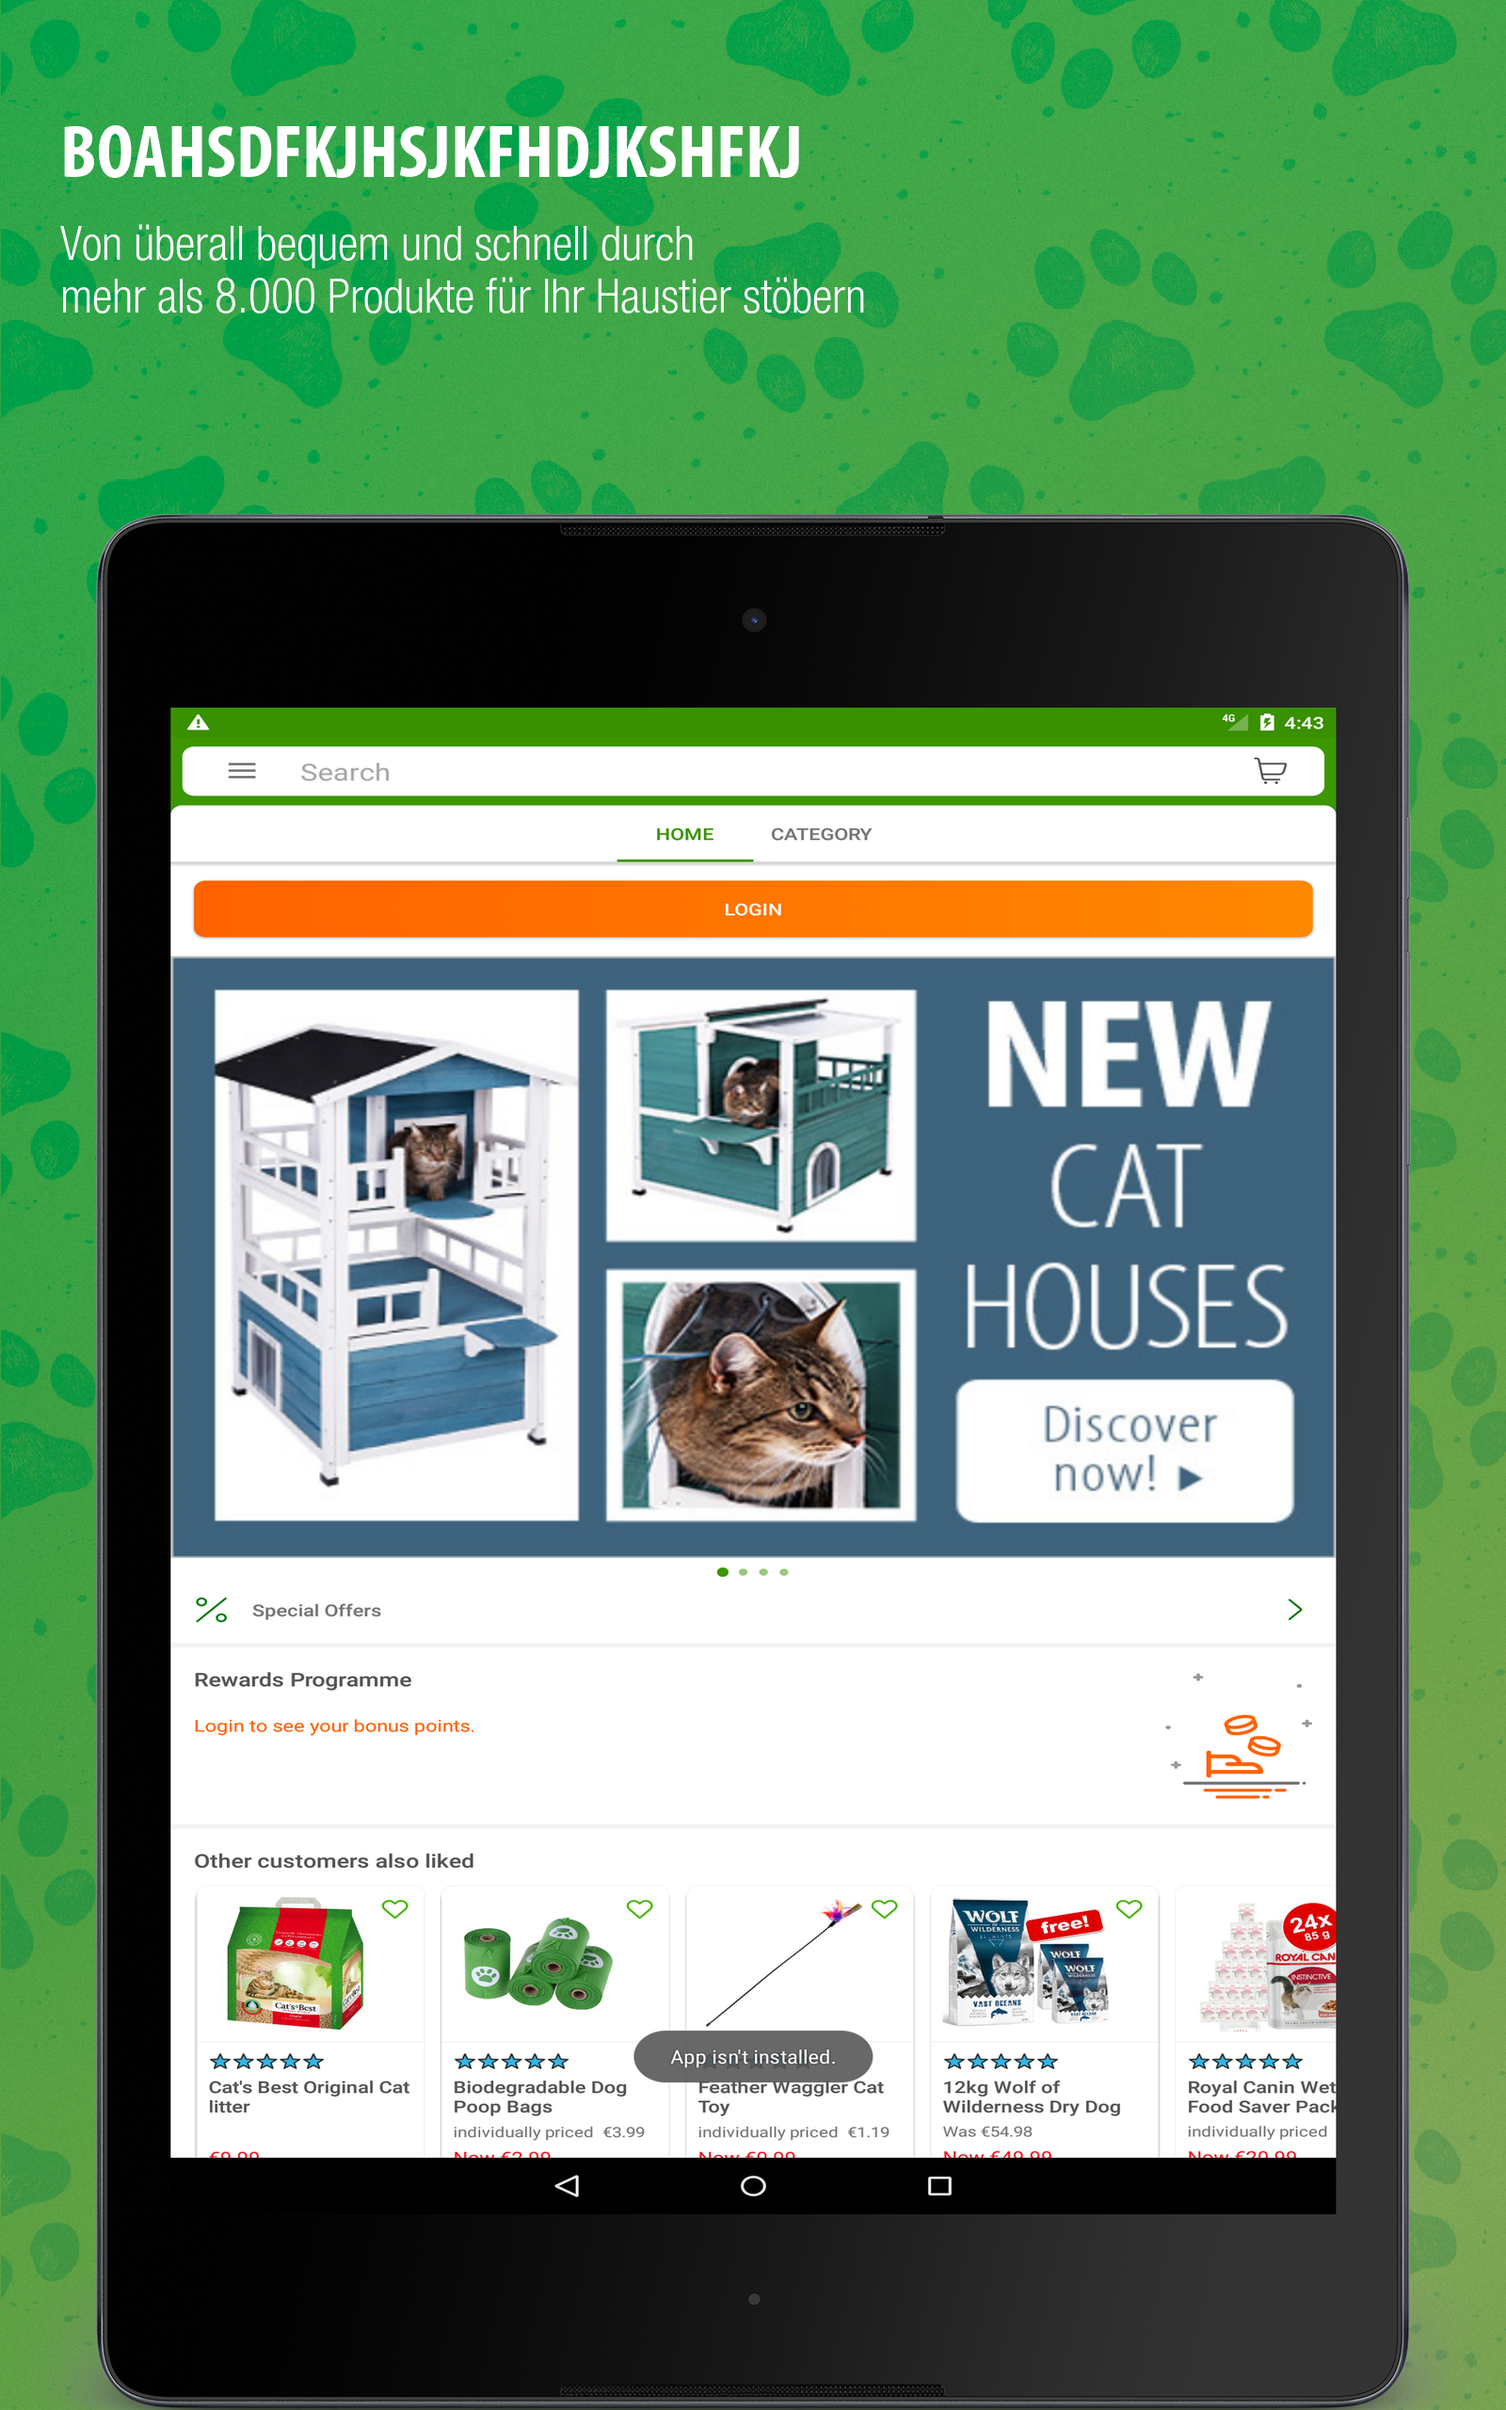
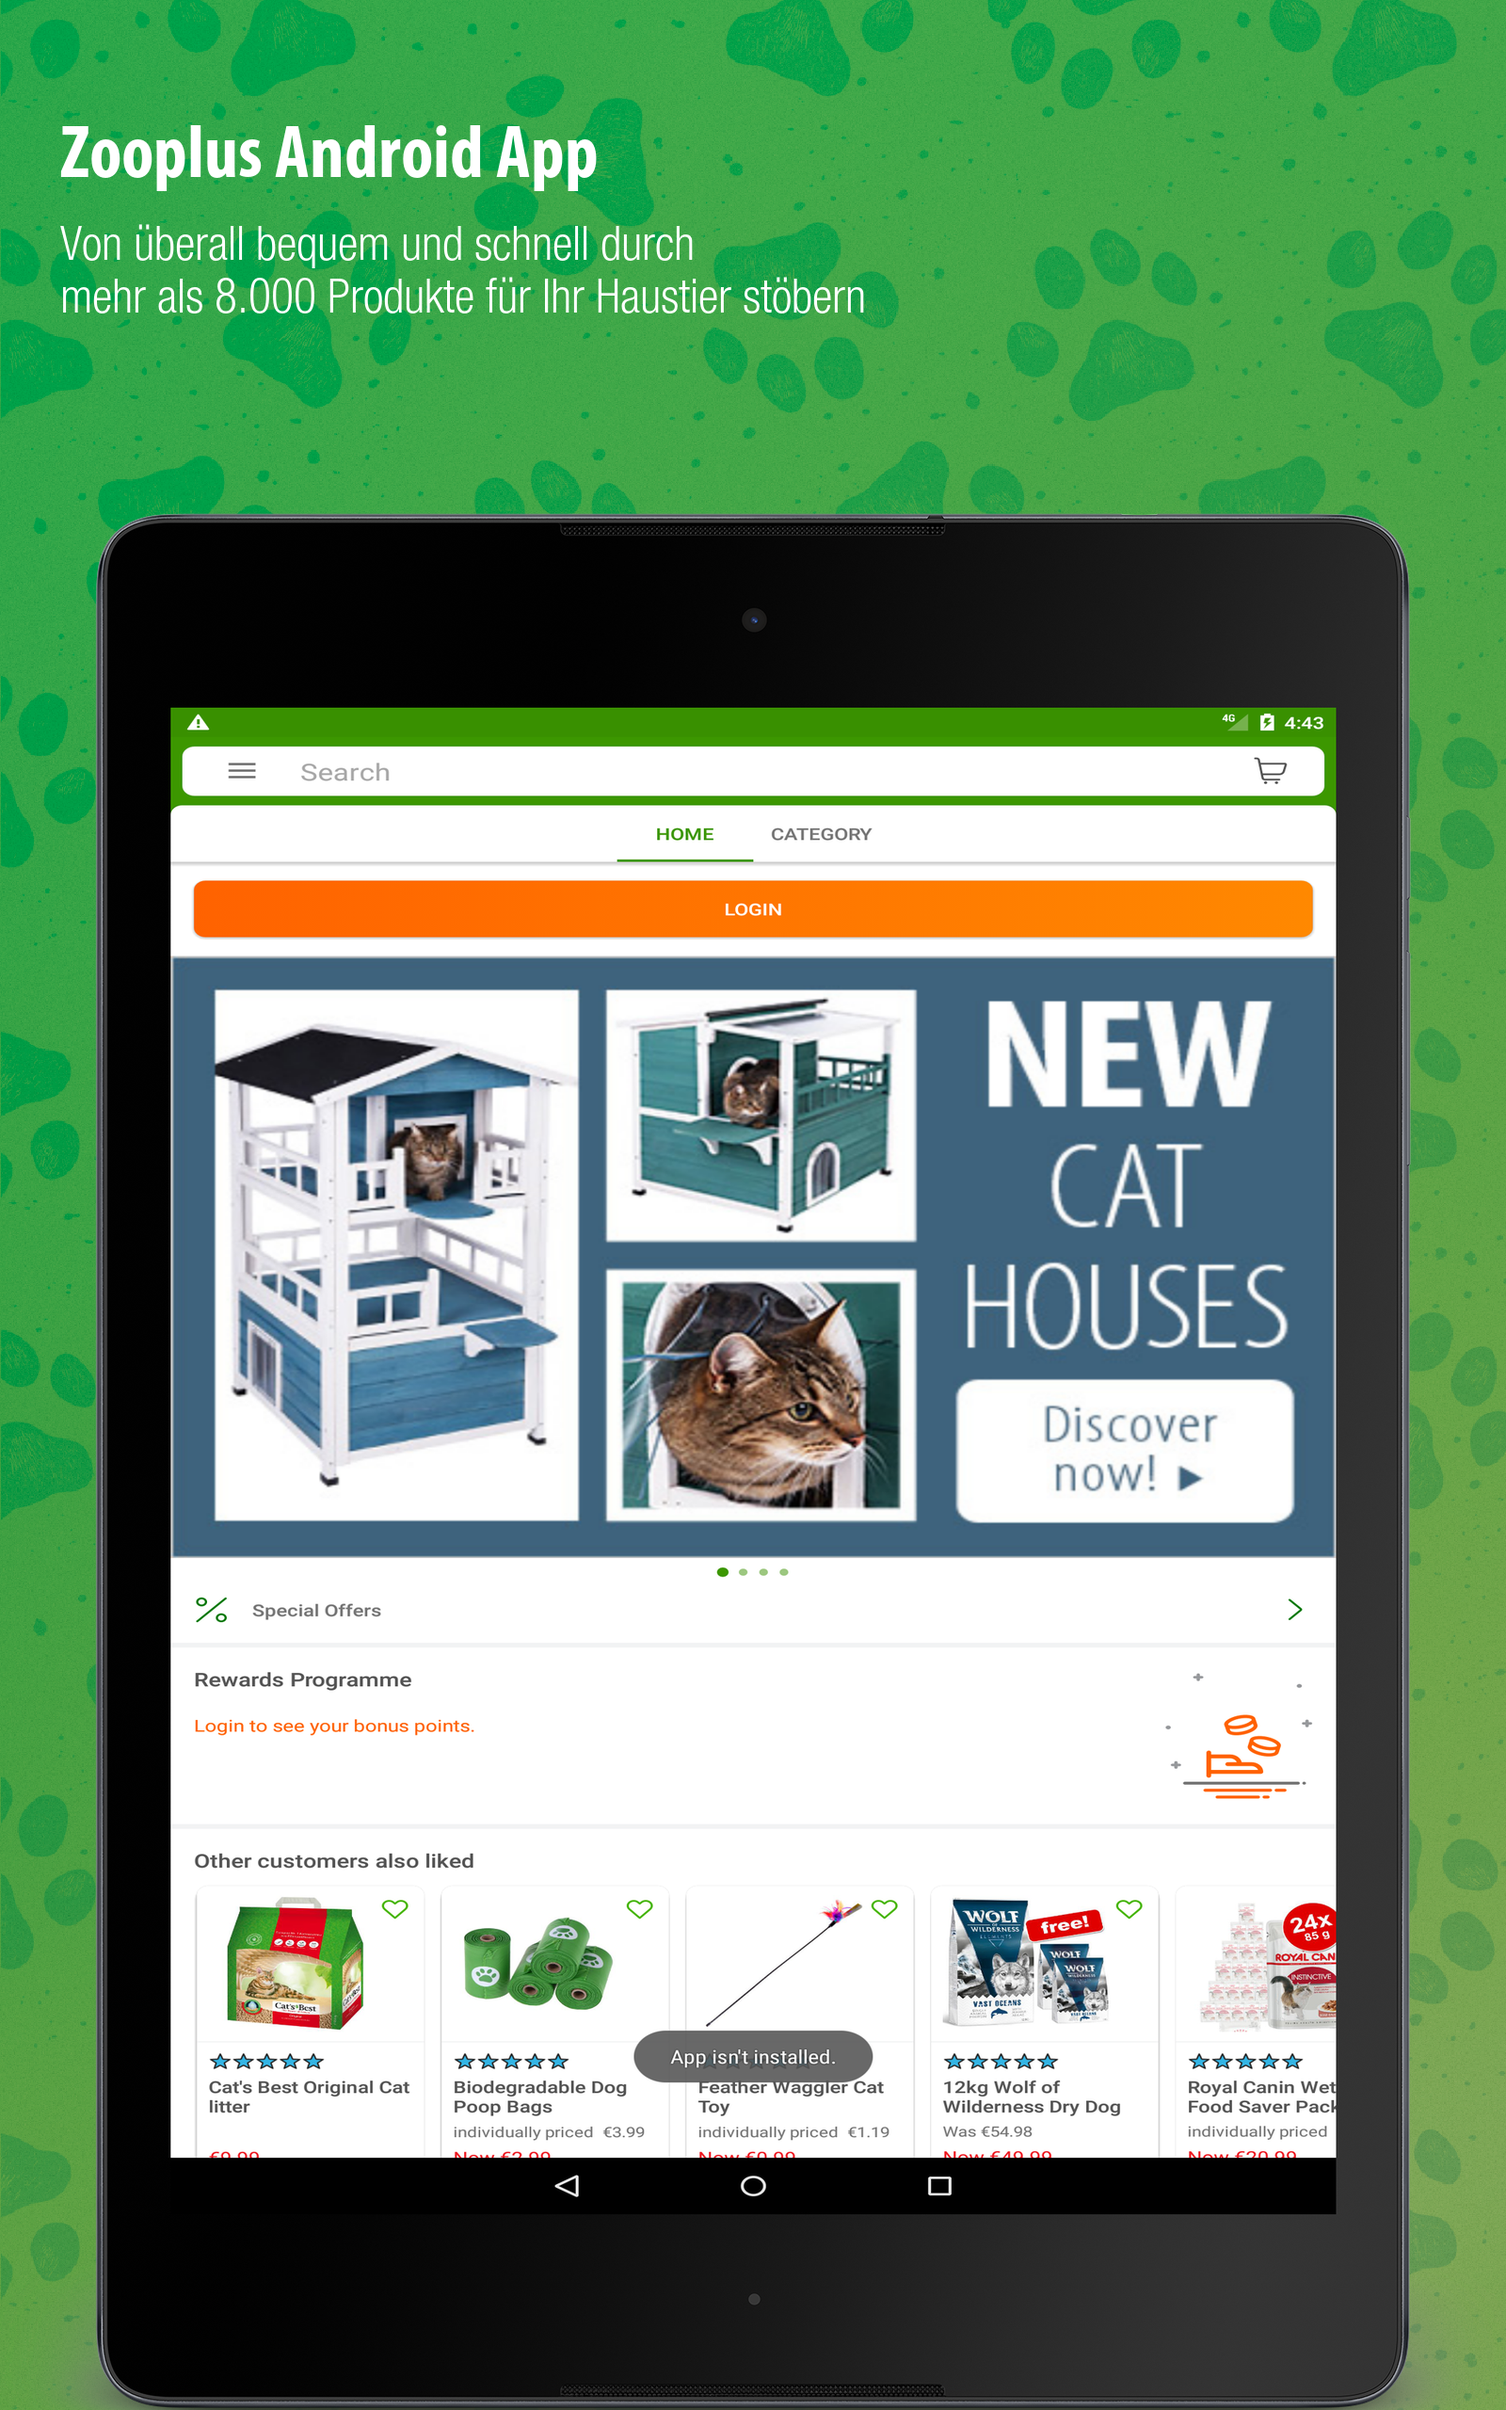
Text set to Zooplus Android App. MA-1436

Changed region(s): [[0.0312, 0.0312, 0.5312, 0.0938]]

diff --git a/src/convert.py b/src/convert.py
@@ -12,7 +12,7 @@ def main():
     for device in ("phone", "7inch", "10inch"):
         FramedImage(background_name="frame_dog_paws.png", frame=device_to_frame[device],
                     screen_shot=f"screenshot_{device}.png", output_name=f"output_{device}") \
-            .add_text("BOAHSDFKJHSJKFHDJKSHFKJ",
+            .add_text("Zooplus Android App",
                       "Von überall bequem und schnell durch\nmehr als 8.000 Produkte für Ihr Haustier stöbern",
                       title_font='fonts/MYRIADPRO-BOLDCOND.otf', text_font='fonts/HelveticaNeueLTPro-LtCn.otf') \
             .save()
